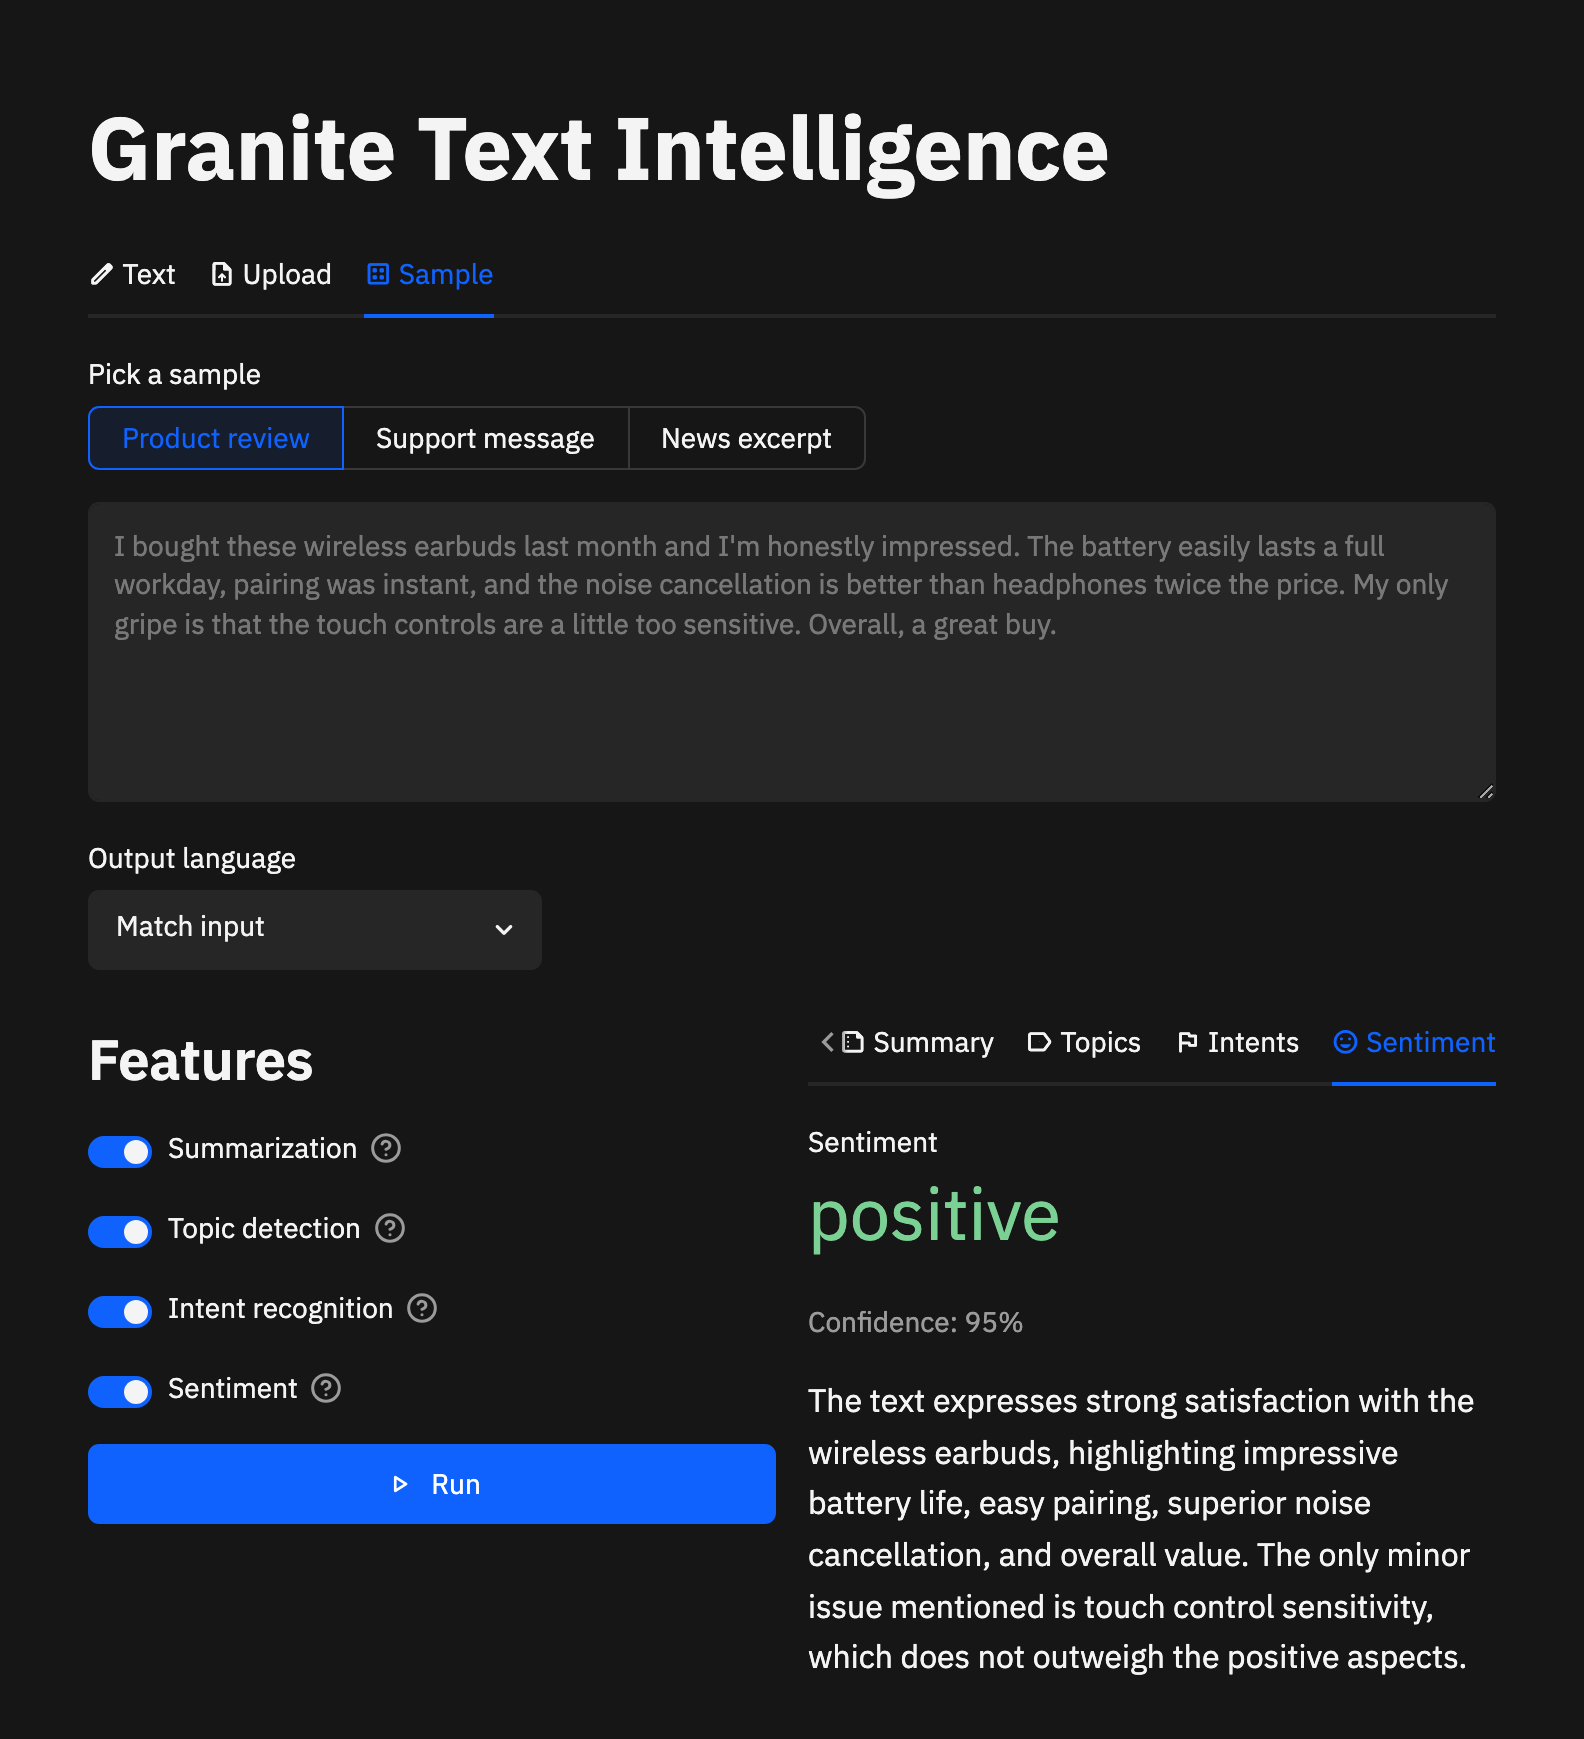
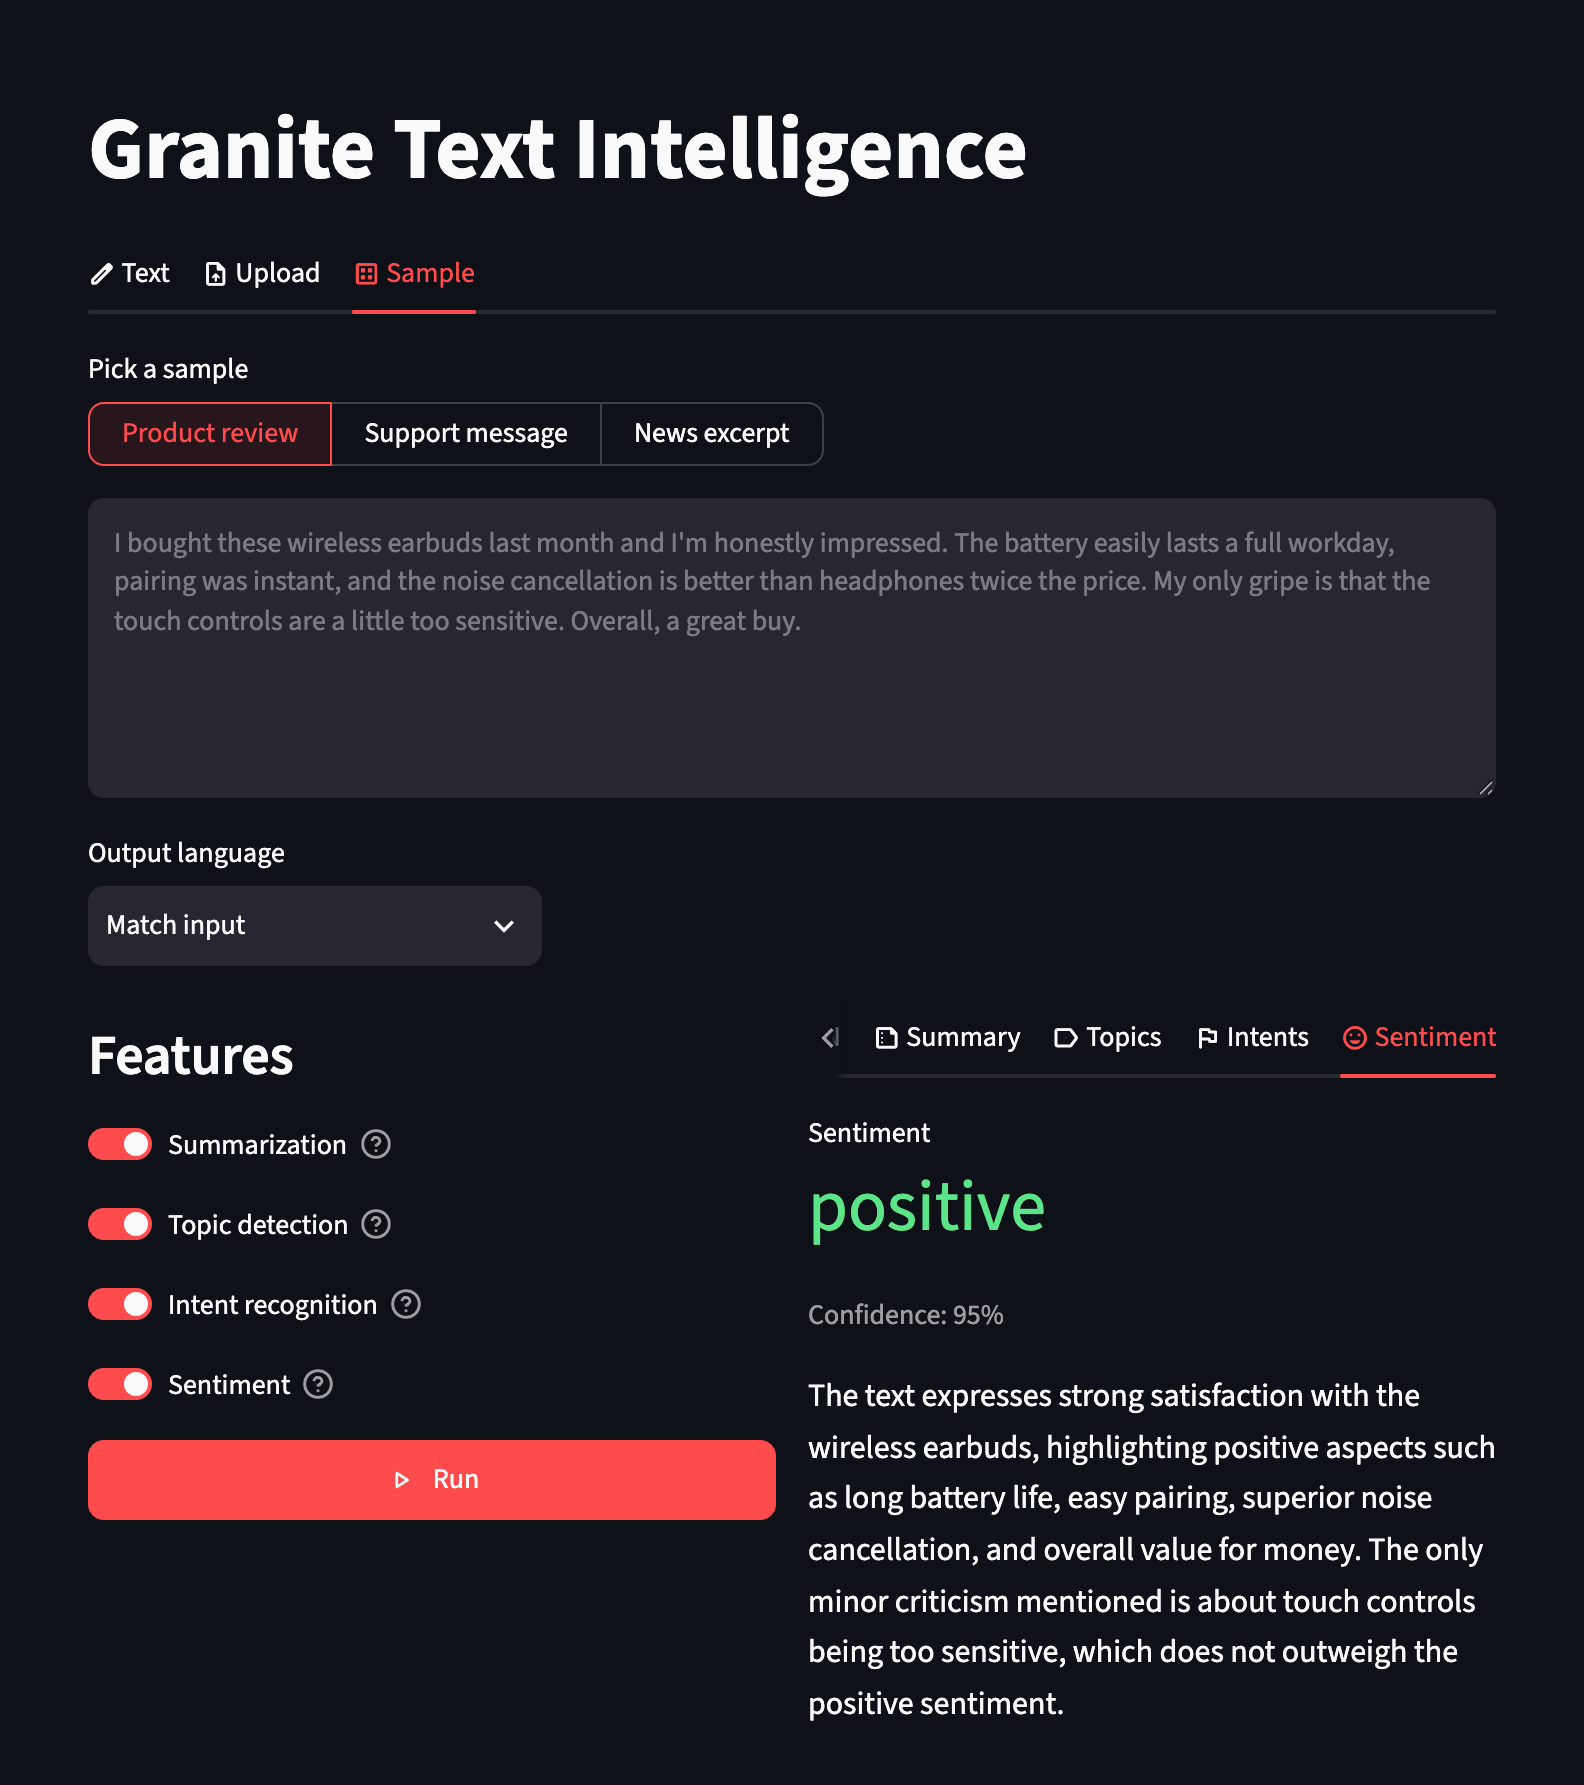
docs: recapture the dark screenshot under the built-in theme
The pair was captured under the IBM Carbon theme, so both had gone stale when
it was removed. This replaces the dark one; screenshot-light.png still shows
IBM Plex over IBM Blue and is now the odd one out.

Captured by driving the real app with Playwright rather than by hand, so the
state the alt text pins is reproduced rather than approximated: the Product
review sample, all four features on, Sentiment result tab. Greedy decoding held
it exactly — the metric still reads "positive" at 95% confidence, so the alt
text needed no edit. Dark mode comes from prefers-color-scheme, which with no
custom theme shipping is the same path a real user's system setting takes, so
the image is evidence the built-in dark theme engages rather than a picture of
a forced mode.

Three things the capture has to do that are not obvious, all recorded in
CLAUDE.md so the light one can be brought back into line:

Streamlit scrolls an inner container, not the document, so the document stays
exactly viewport-tall and a full_page capture silently returns just the visible
window — clipped wherever the container happened to be scrolled to, which after
clicking a result tab is far enough down to cut the title in half. Sizing the
viewport from a DOM measurement instead runs into a feedback loop, since the
main container is min-height:100vh and grows with the viewport being fitted to
it. Cropping pixels has no such loop, so the framing is trimmed to the insets
[…]

diff --git a/CLAUDE.md b/CLAUDE.md
@@ -87,7 +87,7 @@ Conventional Commits — `feat:`, `fix:`, `docs:`, `chore:`, `test:`, `refactor:
 
 `LICENSE` — Apache-2.0 for the project's **code**, declared to tooling in `pyproject.toml` via PEP 639 SPDX fields (`license`, `license-files`) and summarized in the README. The IBM Granite model is licensed separately (also Apache 2.0) and downloaded at runtime, not vendored here.
 
-`README.md`, `docs/images/` — the user-facing README restates facts this file also carries (the model id and its weight sizes, a `granite-4.1-3b-4bit` fallback for smaller machines, the ~16 GB unified-memory envelope, the input precedence, all 12 language names) and embeds `screenshot-light.png` / `screenshot-dark.png`, whose alt text pins a specific UI state. **No test guards any of it**, so a change to the model, the language list or the layout has to be mirrored there by hand, and a theme or layout change dates the screenshots. **Both are currently stale**: they were captured under the IBM Carbon theme removed on 2026-08-14 and still show IBM Plex over IBM Blue, so they need re-capturing under Streamlit's built-in light and dark themes.
+`README.md`, `docs/images/` — the user-facing README restates facts this file also carries (the model id and its weight sizes, a `granite-4.1-3b-4bit` fallback for smaller machines, the ~16 GB unified-memory envelope, the input precedence, all 12 language names) and embeds `screenshot-light.png` / `screenshot-dark.png`, whose alt text pins a specific UI state. **No test guards any of it**, so a change to the model, the language list or the layout has to be mirrored there by hand, and a theme or layout change dates the screenshots. **`screenshot-light.png` is currently stale**: it was captured under the IBM Carbon theme removed on 2026-08-14 and still shows IBM Plex over IBM Blue. `screenshot-dark.png` was re-captured the same day under the built-in dark theme; to make the two match, capture at **792 CSS px wide × DPR 2** (= the pair's 1584 px) with the toolbar hidden, then crop to the pair's **113 px top / 64 px bottom** insets — a full-page capture will not do it on its own, because Streamlit scrolls an inner container and leaves the document exactly viewport-tall.
 
 `.python-version` — pins the project interpreter to `3.12` (via `uv python pin`), which `uv sync` / `uv run` honor automatically. Keeps the version you run and test against aligned with the `requires-python = ">=3.12"` floor and the ty type-check target, instead of letting uv auto-select the newest installed Python (e.g. 3.13).
 
